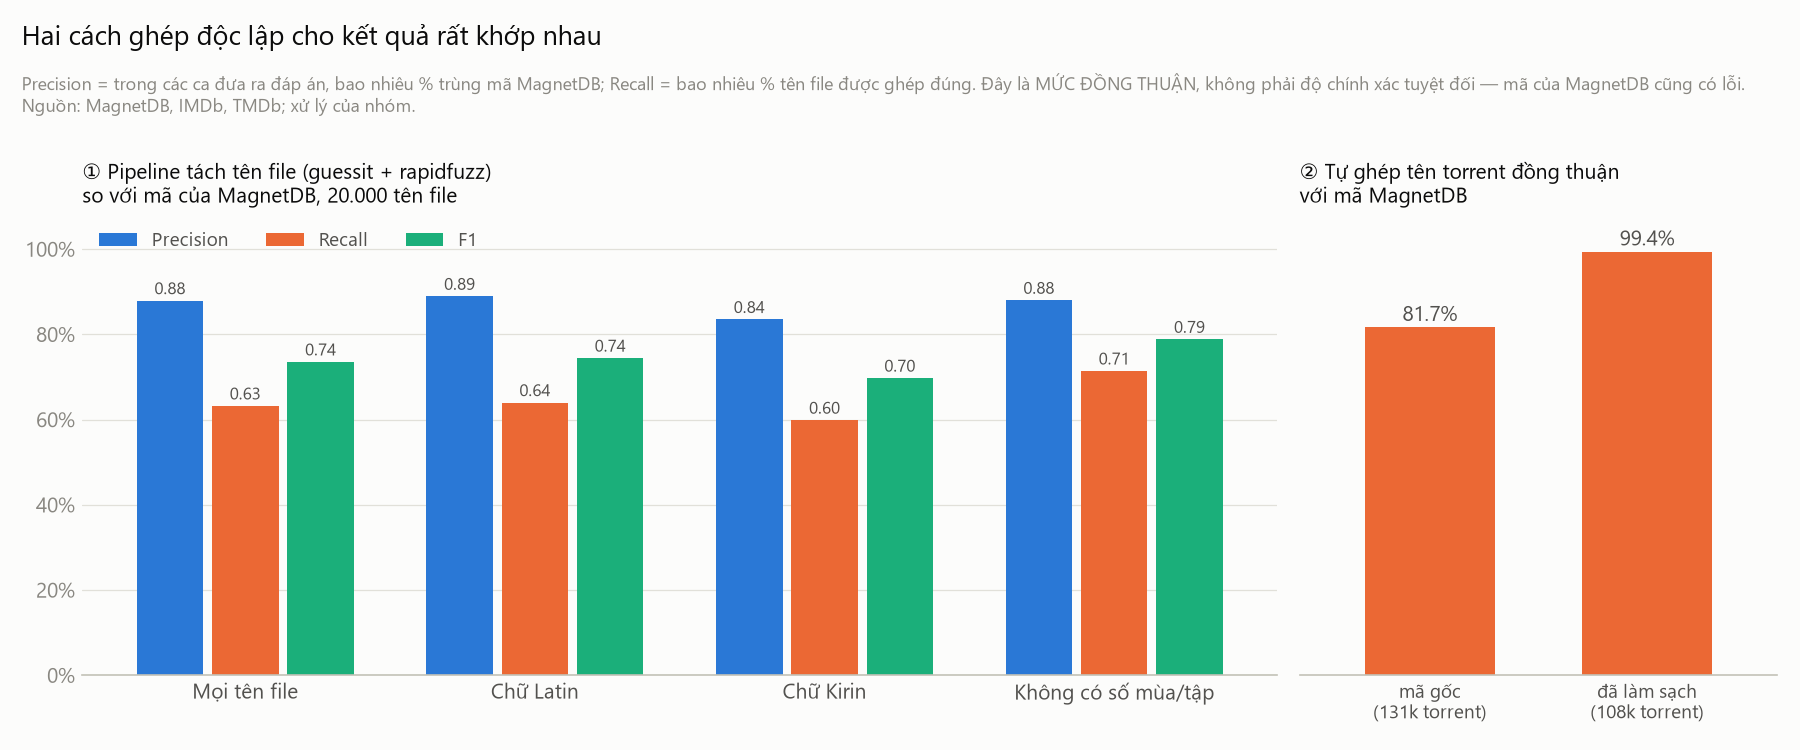
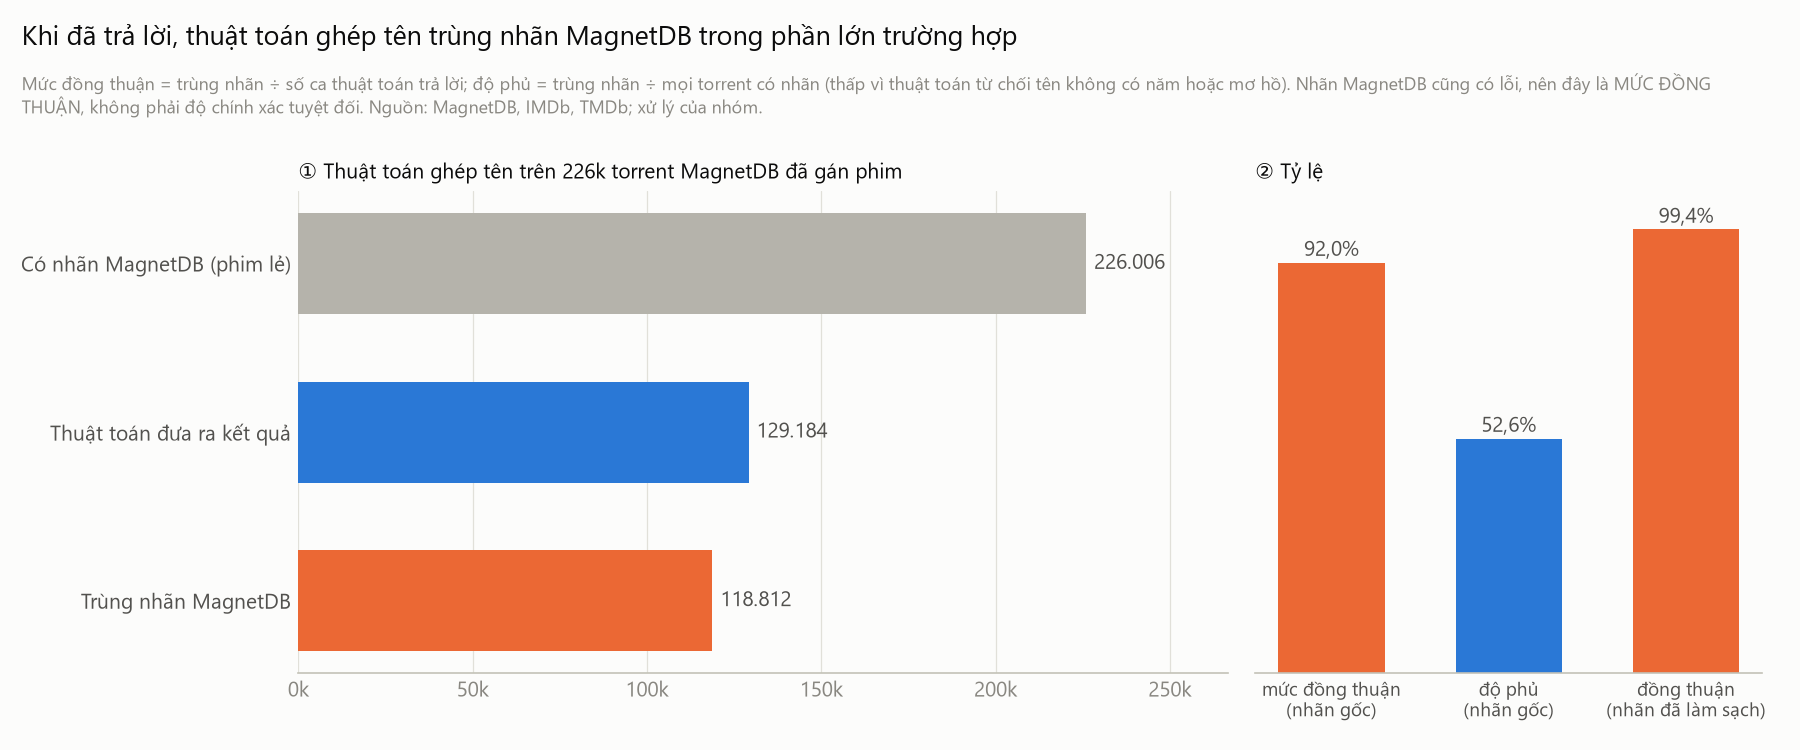
Evaluate the main matching algorithm in notebook 06 as in notebook 00
Section 4 of notebook 06 now measures the step-4 name-matching
algorithm against MagnetDB labels with the same definition as notebook
00: 226,006 labelled torrents, 129,184 answered, 92.0% agreement,
52.6% coverage, plus 99.4% agreement with cleaned MagnetDB labels. The
guessit + rapidfuzz precision/recall is dropped and the figure redrawn.

diff --git a/notebooks/_src/make_06.py b/notebooks/_src/make_06.py
@@ -21,15 +21,16 @@ MD = {
         "**Nhận xét.** Gần như **mọi bom tấn \"biến mất\"**: *Top Gun: Maverick, Dune, The Batman, Black Widow…* có 0 torrent theo mã của MagnetDB, "
         "nhưng 700–950 torrent sau khi tự ghép. Chỉ *The Matrix Resurrections* được MagnetDB ghép tốt. Mọi kết luận về phim lậu dựa trên dữ liệu gốc "
         "sẽ sai lệch nghiêm trọng — đây là đóng góp quan trọng nhất của bước tích hợp."),
- "04": ("## 4. Phép ghép đáng tin đến đâu?",
-        "**Nhận xét.** ① Pipeline tách tên file (guessit + rapidfuzz) đạt **precision ~0,88** so với mã MagnetDB; recall thấp hơn (~0,63) vì cố tình bỏ phim bộ "
-        "và tên Nga phiên âm Latin. ② Tự ghép tên torrent trùng **81,7%** với mã *gốc* của MagnetDB nhưng **99,4%** với mã MagnetDB *đã làm sạch* — "
-        "khoảng chênh chính là các lỗi của mã gốc mà bước làm sạch đã loại. Lưu ý: đây là **mức đồng thuận** giữa hai phương pháp, không phải độ chính xác "
-        "tuyệt đối; kiểm tra bằng mắt hàng trăm mẫu ngẫu nhiên cho thấy hầu hết đều đúng."),
+ "04": ("## 4. Thuật toán ghép tên khớp với nhãn MagnetDB đến đâu?",
+        "**Nhận xét.** Đo trực tiếp thuật toán ghép tên ở `src/04` (cùng cách tính với notebook 00, Bước 8), trên **226.006** torrent mà MagnetDB "
+        "cũng gán vào một phim lẻ. Thuật toán đưa ra kết quả cho **129.184** torrent; **92,0%** trùng nhãn MagnetDB (*mức đồng thuận*). "
+        "*Độ phủ* **52,6%** thấp hơn vì thuật toán cố ý từ chối tên không có năm hoặc mơ hồ thay vì đoán. So với nhãn MagnetDB *đã làm sạch* "
+        "(bỏ phim bộ, năm lệch, tên không giống…), mức đồng thuận lên **99,4%** — khoảng chênh chủ yếu là lỗi của nhãn gốc, vd. MagnetDB gán "
+        "`Paranormal Activity 4` vào phần 1. Đây là **mức đồng thuận**, không phải độ chính xác tuyệt đối, vì nhãn MagnetDB cũng có lỗi."),
 }
 SUMMARY = ("## Tóm tắt phần 3.1\n\n| Khía cạnh | Kết quả |\n|---|---|\n"
  "| Dữ liệu cuối | ~2,07 triệu torrent sạch, ~126k phim |\n"
  "| Độ phủ | Tự ghép tăng dữ liệu phim ~14 lần; bom tấn gần như không có trong dữ liệu gốc |\n"
- "| Chất lượng | Đồng thuận 99,4% với mã MagnetDB đã làm sạch |\n"
+ "| Chất lượng | Đồng thuận 92,0% với nhãn MagnetDB gốc (độ phủ 52,6%), 99,4% với nhãn đã làm sạch |\n"
  "| Hạn chế | Cần năm trong tên torrent; bỏ phim trùng tên; ~1% có thể vẫn ghép sai |")
 build(r"D:\dulieulon\notebooks\_src\06_integration.py", r"D:\dulieulon\notebooks\06_integration.ipynb", INTRO, MD, SUMMARY)

diff --git a/README.md b/README.md
@@ -196,7 +196,7 @@ curl -L -o data_raw/geo/ne_110m_admin_0_countries.geojson \
 | `05_build_movie_list` | Danh sách phim từ hai nguồn ghép | `movies` | vài giây |
 | `06_fetch_tmdb --catalog-min-votes 1000` | Gọi TMDb (cả phim IMDb ≥ 1.000 vote không có trên torrent) | `data_raw/tmdb_cache/*.json` | ~4–5 giờ |
 | `07_tmdb_to_table` | JSON → bảng | `tmdb_movies`, `tmdb_release_dates`, `tmdb_watch_providers` | ~1 phút |
-| `08_match_eval` | Pipeline guessit + rapidfuzz, đánh giá vs MagnetDB (cho notebook 06) | `match_eval` | ~3 phút |
+| `08_match_eval` | Pipeline phụ guessit + rapidfuzz trên 20.000 tên file (tham khảo; notebook 00 và 06 đánh giá trực tiếp thuật toán của `04` so với nhãn MagnetDB) | `match_eval` | ~3 phút |
 | `09_build_tables` | Làm sạch (A–J) + gộp hai nguồn | `torrents_clean`, `movie_analysis`, `cleaning_log.csv` | ~1 phút |
 | `10_extract_magnetdb_overview` | Mọi torrent + mẫu 1% bảng files (cho notebook 04) | `mdb_torrents_all`, `mdb_files_sample`, `mdb_files_per_torrent` | ~7 phút |
 
